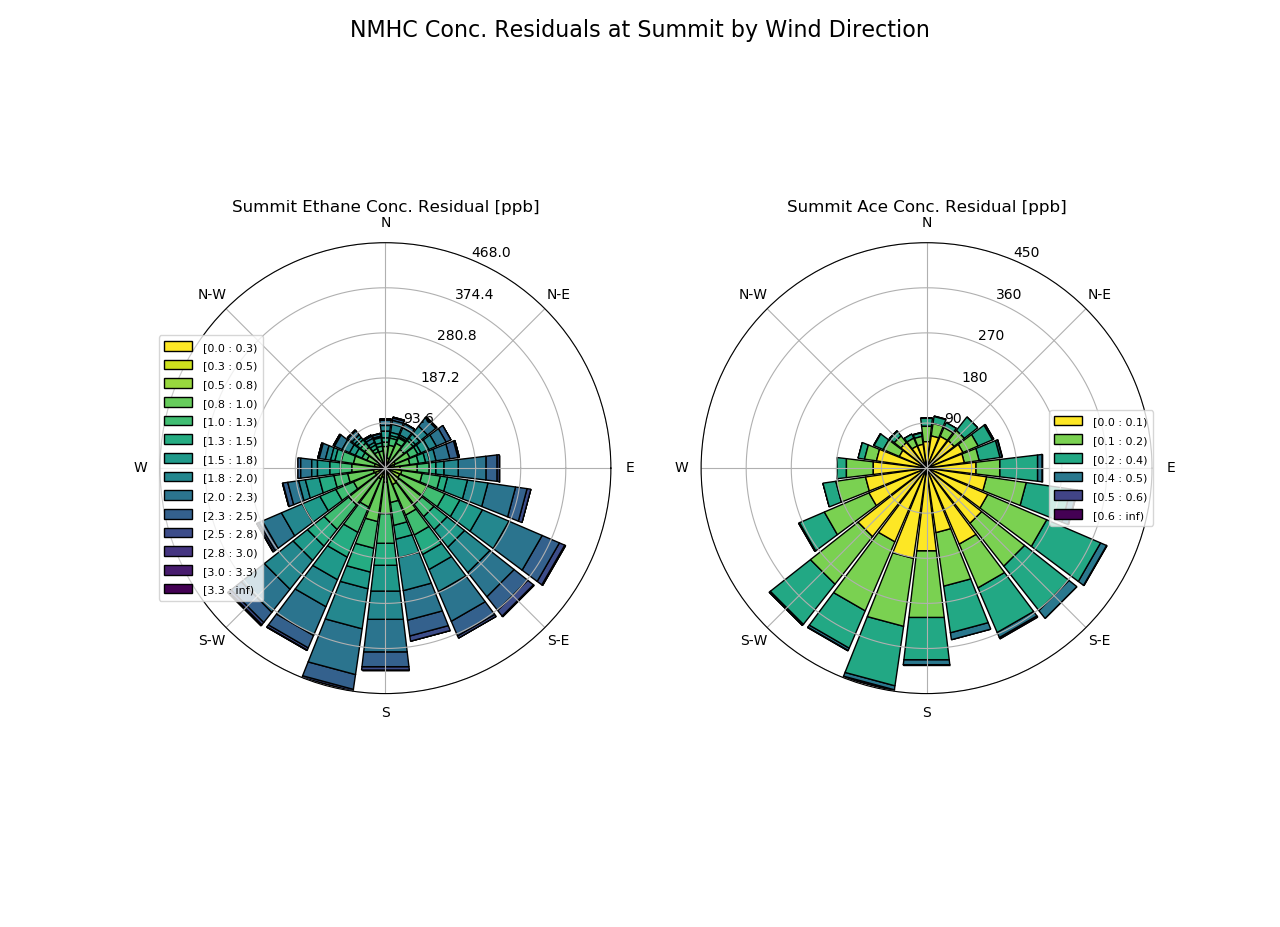
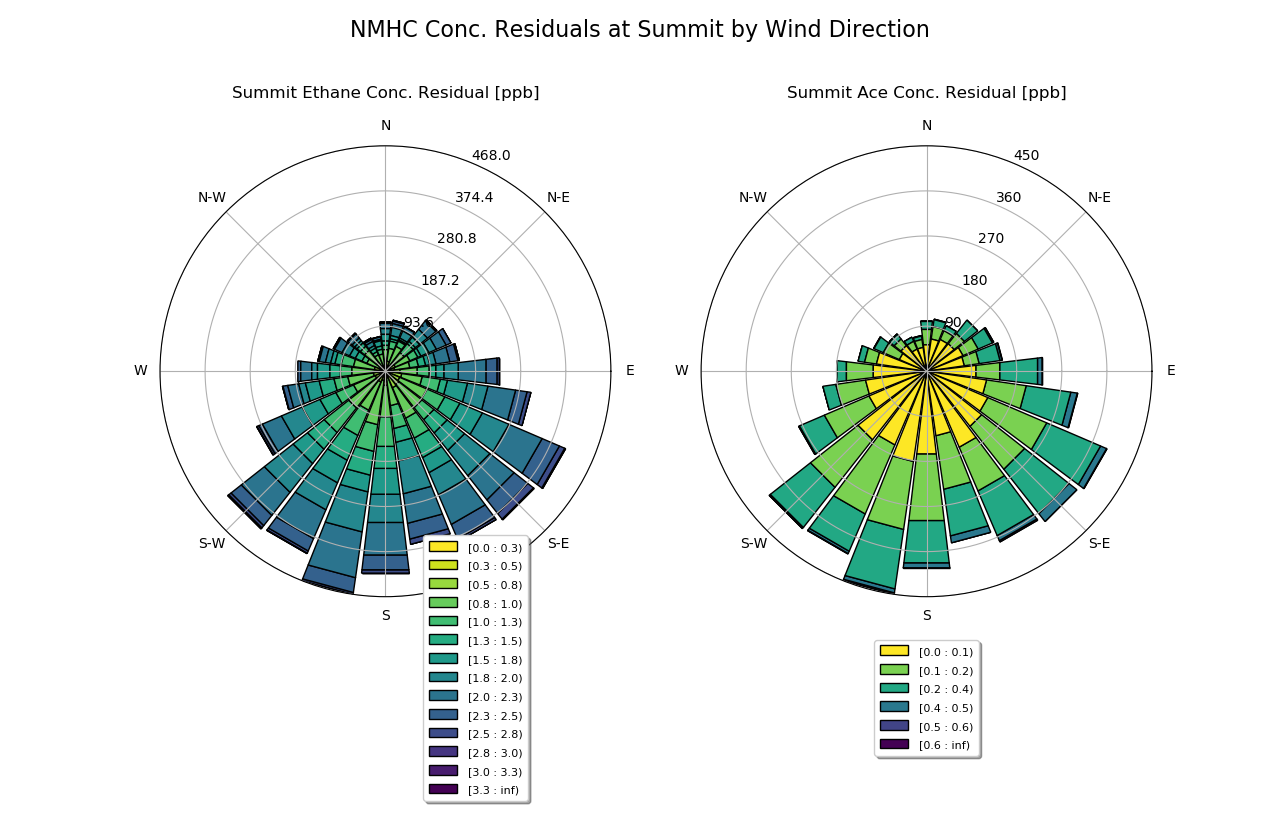
improved plotting legend bbox locations and sizing constraints

diff --git a/analyses/WindRose/windRoseConc.py b/analyses/WindRose/windRoseConc.py
@@ -17,11 +17,10 @@ def metCombo(filename):
 
     # ---- import data
     met = metTrim()
-    root = r'C:\Users\ARL\Desktop\J_Summit\analyses\HarmonicFit\textfiles'  # root source
     sheet = pd.read_csv(filename, encoding='utf8', delim_whitespace=True)
 
     # ---- data organization
-    colnames = ['yr', 'mo', 'day', 'hr', 'min', 'val']                                          # column names
+    colnames = ['yr', 'mo', 'day', 'hr', 'min', 'val']                                      # column names
     sheet.columns = colnames                                                                # rename cols
     sheet['datetime'] = createDatetime(sheet['yr'],                                         # create datetime
                                        sheet['mo'],
@@ -55,19 +54,19 @@ def windRose():
     # setup subplots
     fig, (ax1, ax2) = plt.subplots(1, 2, subplot_kw=dict(projection='windrose'))                            #
     fig.suptitle('NMHC Conc. Residuals at Summit by Wind Direction', fontsize=16)
-    plt.subplots_adjust(left=None, bottom=None, right=None, top=None, wspace=0.2, hspace=0)
+    plt.subplots_adjust(left=None, bottom=None, right=None, top=None, wspace=0.2, hspace=-0.2)
 
     # setup ethane windrose
     ax1.bar(ethane['dir'].values, ethane['val'].values, normed=False, opening=0.9, edgecolor='black',
             nsector=24, bins=14, cmap=cm.viridis_r, blowto=False)
-    ax1.set_title('Summit Ethane Conc. Residual [ppb]')
-    ax1.set_legend(loc=6)
+    ax1.set_title('Summit Ethane Conc. Residual [ppb]\n')
+    ax1.set_legend(loc=8, fancybox=True, shadow=True, bbox_to_anchor=(0.70, -.45))
 
     # setup acetylene windrose
     ax2.bar(ace['dir'].values, ace['val'].values, normed=False, opening=0.9, edgecolor='black',
             nsector=24, bins=6, cmap=cm.viridis_r, blowto=False)
-    ax2.set_title('Summit Ace Conc. Residual [ppb]')
-    ax2.set_legend(loc=7)
+    ax2.set_title('Summit Ace Conc. Residual [ppb]\n')
+    ax2.set_legend(loc=8, fancybox=True, shadow=True, bbox_to_anchor=(0.5, -.35))
 
     plt.show()
 

diff --git a/analyses/WindRose/windRosePicarro.py b/analyses/WindRose/windRosePicarro.py
@@ -95,19 +95,19 @@ def windRosePicarro():
     # ---- plotting
     fig, (ax1, ax2) = plt.subplots(1, 2, subplot_kw=dict(projection='windrose'))
     fig.suptitle('CO & CO2 Conc. at Summit by Wind Direction', fontsize=16)
-    plt.subplots_adjust(left=None, bottom=None, right=None, top=None, wspace=0.2, hspace=None)
+    plt.subplots_adjust(left=None, bottom=None, right=None, top=None, wspace=0.2, hspace=-0.2)
 
     # setup CO windrose
     ax1.bar(metCO_Final['dir'].values, metCO_Final['value'].values, normed=False, opening=0.9,
             edgecolor='black', nsector=24, bins=14, cmap=cm.viridis_r, blowto=False)
     ax1.set_title('CO Conc. [ppb]')
-    ax1.set_legend(loc=6)
+    ax1.set_legend(loc=8, fancybox=True, shadow=True, bbox_to_anchor=(0.5, -.5))
 
     # setup picarro CO2 windrose
     ax2.bar(metCO2_Final['dir'].values, metCO2_Final['value'].values, normed=False, opening=0.9,
             edgecolor='black', nsector=24, bins=14, cmap=cm.viridis_r, blowto=False)
     ax2.set_title('CO2 [ppm]')
-    ax2.set_legend(loc=7)
+    ax2.set_legend(loc=8, fancybox=True, shadow=True, bbox_to_anchor=(0.5, -.5))
 
     plt.show()
 
